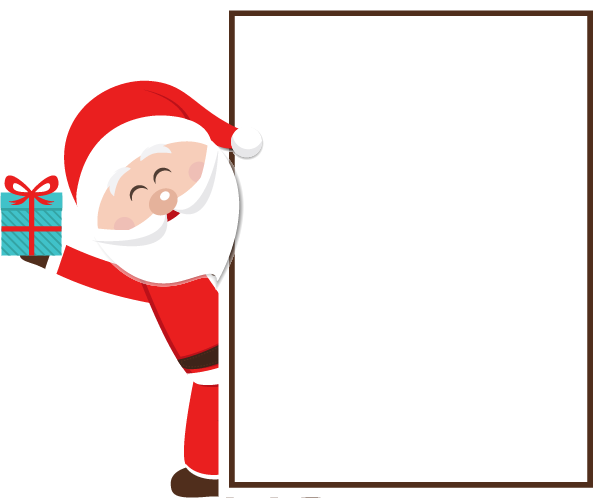
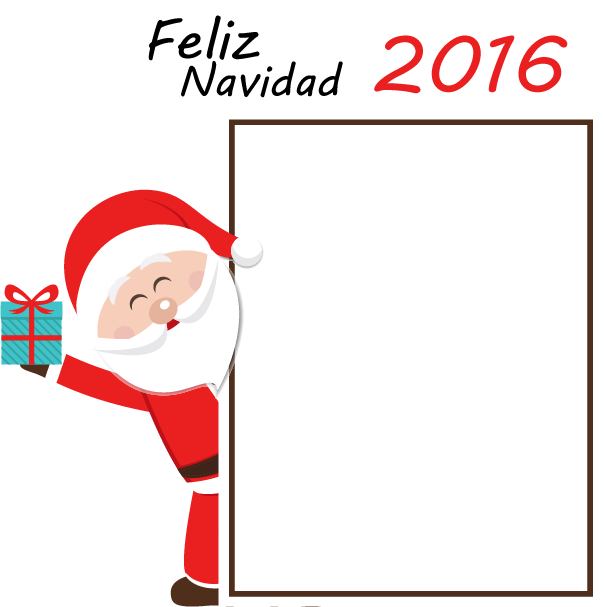
Update

diff --git a/css/style.css b/css/style.css
@@ -22,7 +22,7 @@ body{
     height: 245px;
     left: 110px;
     position: absolute;
-    top: 0;
+    top: 55px;
     width: 63%;
     z-index: -1;
     overflow: hidden !important;
